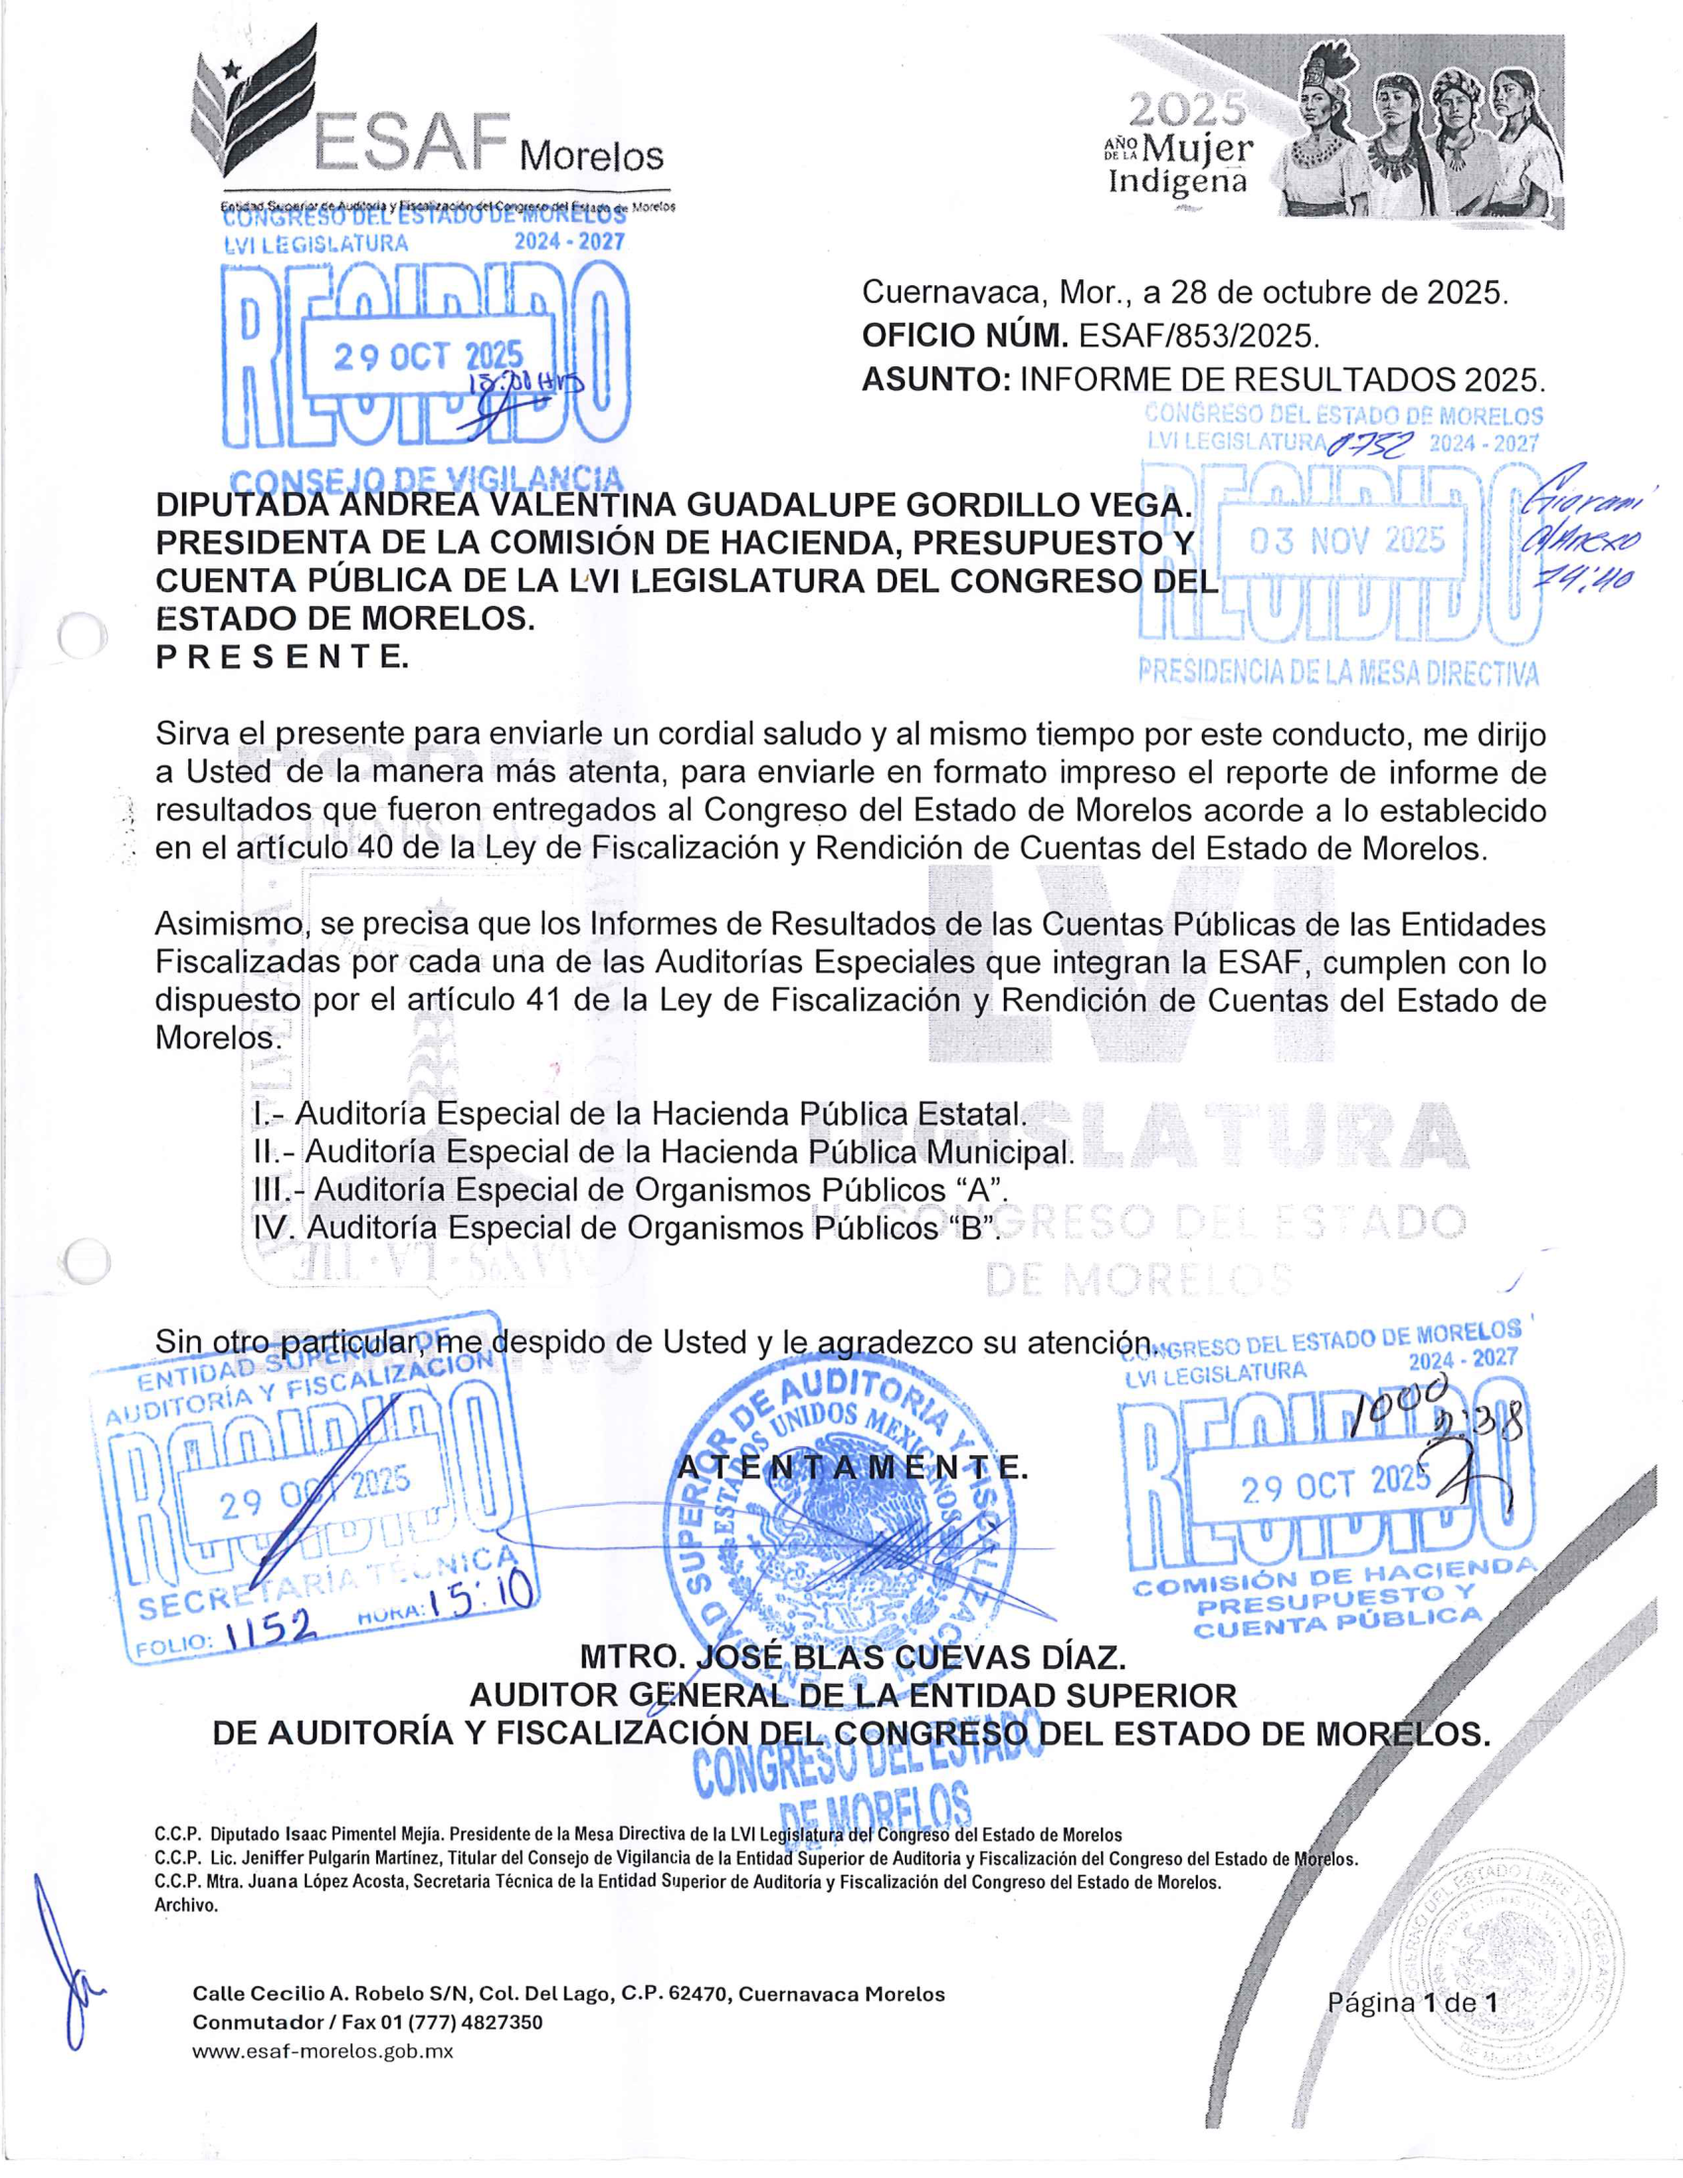
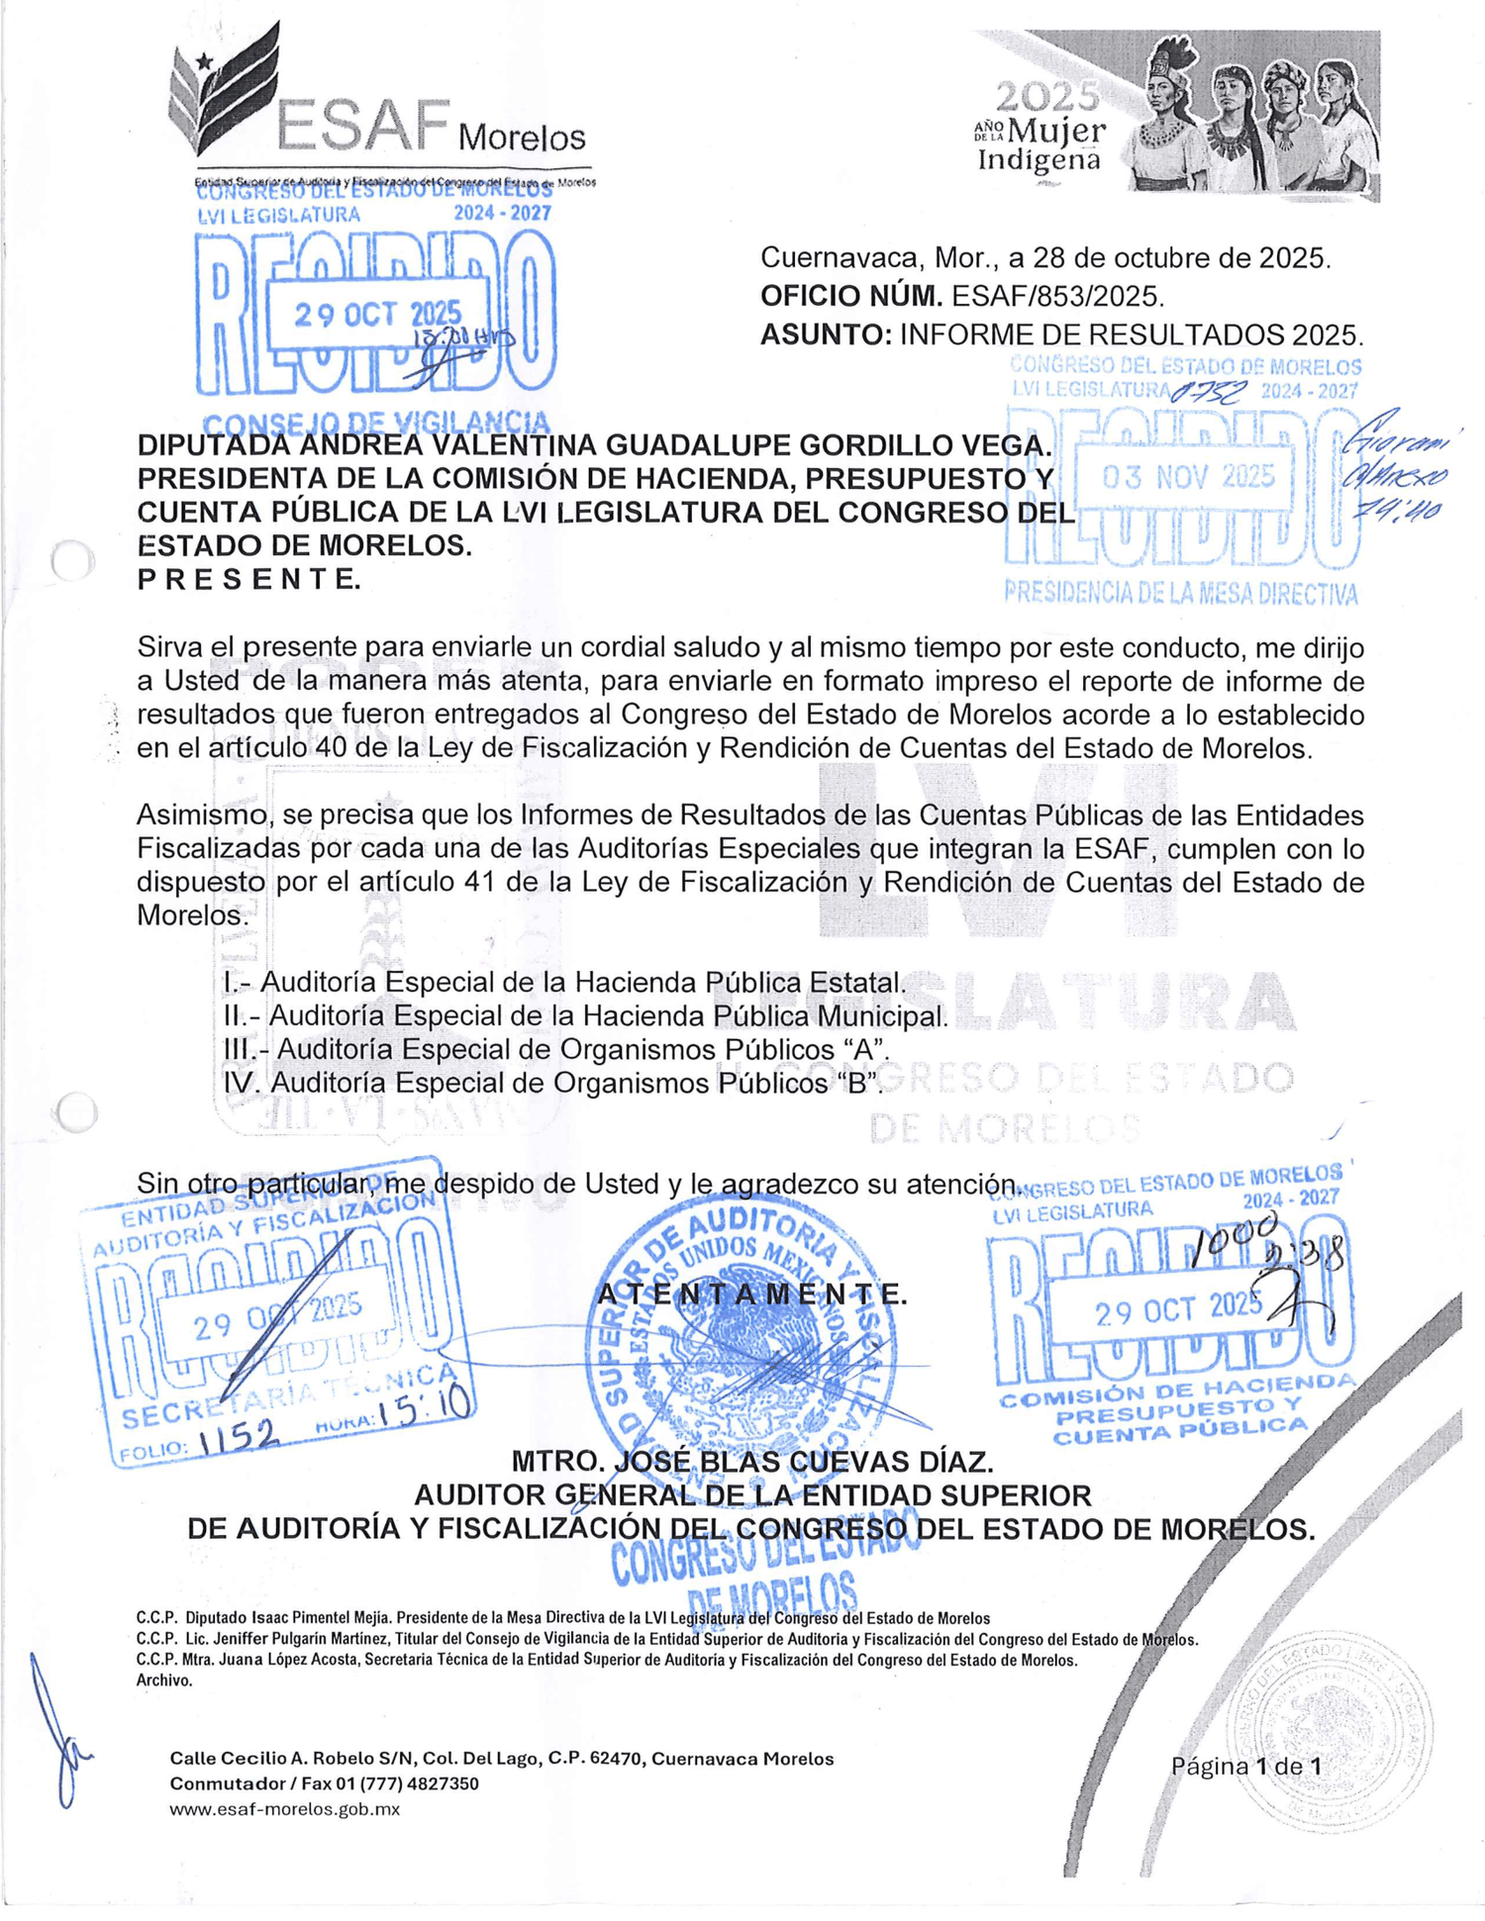
Capturas de evidencia: optimizacion de peso y pie de foto del oficio ESAF/853/2025
El oficio afirma expresamente que los informes cumplen con el articulo 41; el pie
lo recoge textual, junto a los sellos de recibido del Congreso.

diff --git a/cincuenta-millones-y-ni-una-palabra.html b/cincuenta-millones-y-ni-una-palabra.html
@@ -91,7 +91,7 @@
 
       <p>Los dos únicos informes que su titular ha rendido al Congreso, el de 2024 y el de 2025, documentan 165 auditorías.  De esas 165, exactamente 4 llegaron dentro del plazo que marca la ley. Son el 2.4 por ciento. Las otras 161, el 97.6 por ciento, llegaron tarde.</p>
 
-      <figure class="article-figure evidencia" style="margin:2.2rem 0;"><img src="ev-esaf-02-oficio-esaf-853-2025.png" alt="Oficio ESAF/853/2025, con el que el Auditor General remitió al Congreso del Estado su Reporte de Informes de Resultados el 28 de octubre de 2025." style="width:100%;height:auto;aspect-ratio:auto;object-fit:contain;border:1px solid #d7d2c4;border-radius:8px;display:block;"><figcaption style="font-size:.82rem;line-height:1.45;color:#6b7280;margin-top:.6rem;text-align:center;">Oficio ESAF/853/2025, con el que el Auditor General remitió al Congreso del Estado su Reporte de Informes de Resultados el 28 de octubre de 2025.</figcaption></figure>
+      <figure class="article-figure evidencia" style="margin:2.2rem 0;"><img src="ev-esaf-02-oficio-esaf-853-2025.png" alt="Oficio ESAF/853/2025, del 28 de octubre de 2025, con el que el Auditor General José Blas Cuevas Díaz remitió al Congreso su Reporte de Informes de Resultados. En el segundo párrafo afirma que los informes "cumplen con lo dispuesto por el artículo 41 de la Ley de Fiscalización y Rendición de Cuentas del Estado de Morelos". Los sellos de recibido del Congreso son del 29 de octubre y del 3 de noviembre de 2025." style="width:100%;height:auto;aspect-ratio:auto;object-fit:contain;border:1px solid #d7d2c4;border-radius:8px;display:block;"><figcaption style="font-size:.82rem;line-height:1.45;color:#6b7280;margin-top:.6rem;text-align:center;">Oficio ESAF/853/2025, del 28 de octubre de 2025, con el que el Auditor General José Blas Cuevas Díaz remitió al Congreso su Reporte de Informes de Resultados. En el segundo párrafo afirma que los informes "cumplen con lo dispuesto por el artículo 41 de la Ley de Fiscalización y Rendición de Cuentas del Estado de Morelos". Los sellos de recibido del Congreso son del 29 de octubre y del 3 de noviembre de 2025.</figcaption></figure>
 
       <p>El plazo no es un capricho nuestro. El artículo 40 de la Ley de Fiscalización y Rendición de Cuentas del Estado de Morelos dice que el informe se entrega a más tardar el 31 de octubre del año siguiente.</p>
 
